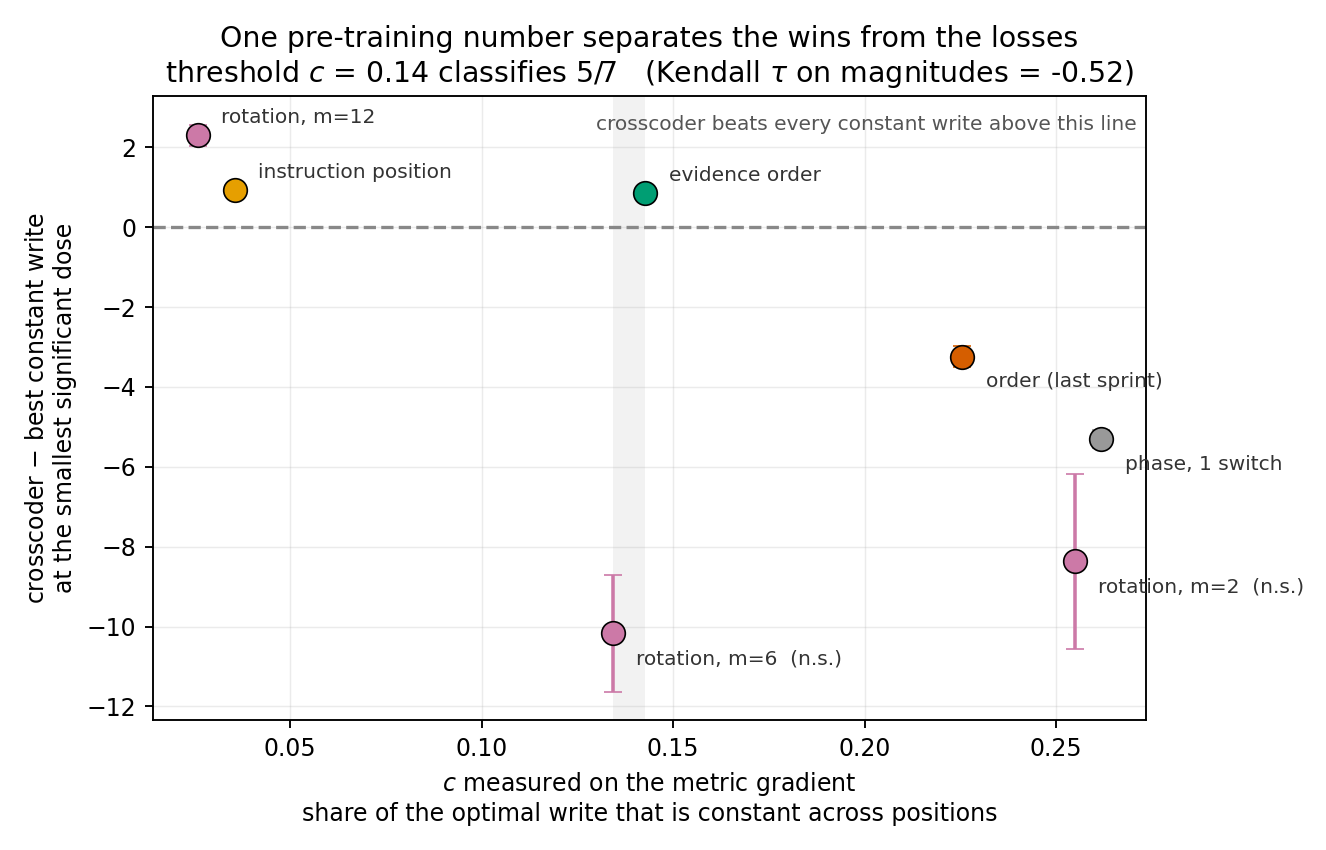
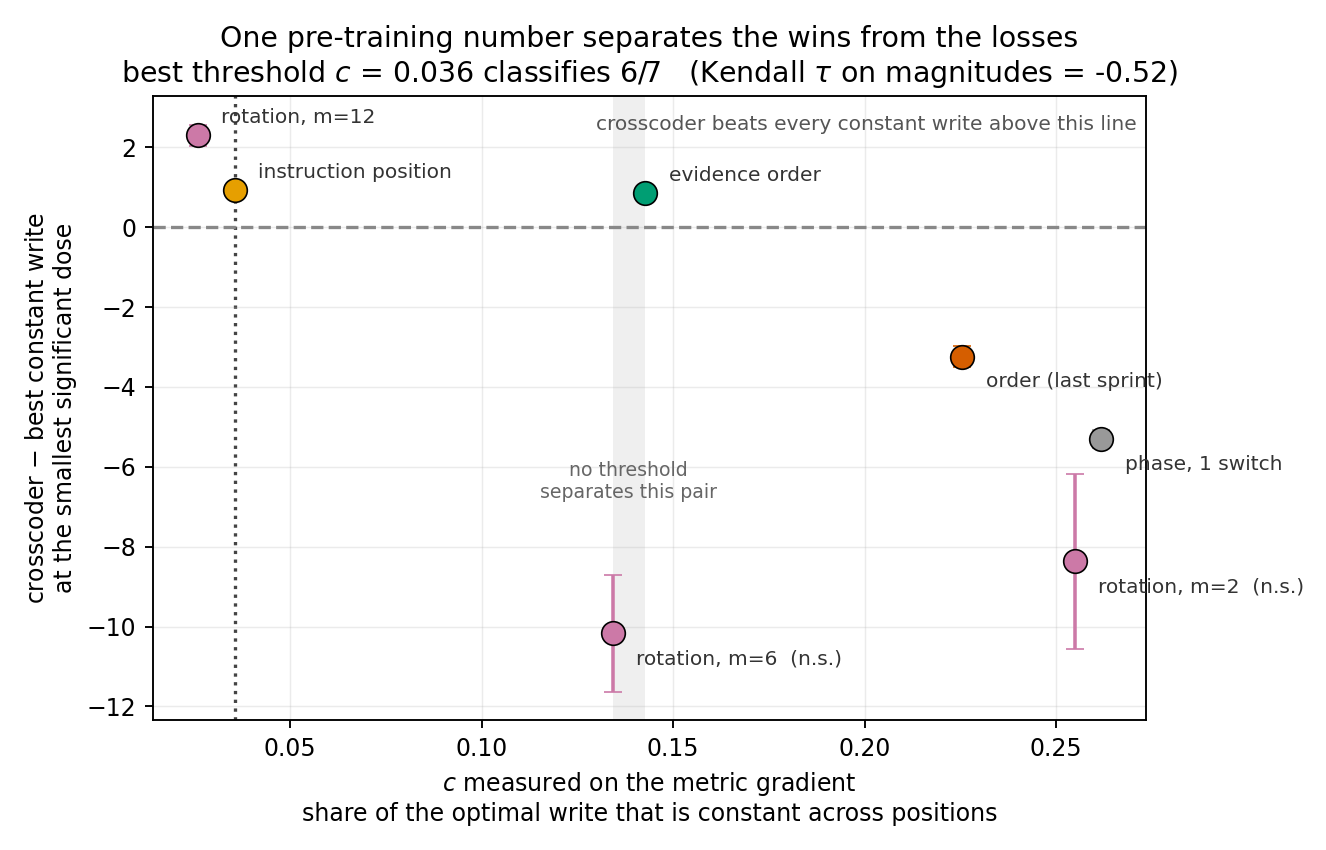
txcwins: two figure label fixes
recency.png legend called the difference-of-means rank-1 arm a per-token
ceiling, which is the claim the text retracts three times over -- the true
rank-1 ceiling is gradient-derived and cos(P_dom, Gbar) runs 0.02-0.19.

c_gate.png drew the threshold at the midpoint between the extreme win and the
extreme loss, which falls inside the inverted pair's 0.009 gap and is the one
cut that misses both. Now searches every cut, reports the best achievable 6/7,
and shades the band where no threshold can separate the pair.

Claude-Session: https://claude.ai/code/session_019TBT3ZW4RMH7Sir9Ng6aap

Changed region(s): [[0.0928, 0.0612, 0.8967, 0.1224], [0.402, 0.5506, 0.5256, 0.5812]]

diff --git a/scripts/plot_c_gate.py b/scripts/plot_c_gate.py
@@ -125,18 +125,28 @@ def main() -> int:
                   "share of the optimal write that is constant across positions")
     ax.set_ylabel("crosscoder $-$ best constant write\n"
                   "at the smallest significant dose")
-    # Rank correlation of MAGNITUDES understates this: the deltas are on different
-    # scales across tasks, so what the screen is being asked to do is classify the SIGN.
-    # A threshold quoted alongside tau is the honest pair.
+    # Rank correlation of MAGNITUDES understates this: the deltas are on different scales
+    # across tasks, so what the screen is asked to do is classify the SIGN. But a threshold
+    # has to be chosen honestly: the midpoint between the extreme win and the extreme loss
+    # falls INSIDE the inverted pair's gap and is the one cut that misses both of them.
+    # Search every cut instead, report the best achievable, and shade the band where no
+    # threshold can separate the pair -- the inversion is the point, not an embarrassment.
     wins = sorted(c for c, m, *_ in pts if m > 0)
     losses = sorted(c for c, m, *_ in pts if m <= 0)
-    thr = (max(wins) + min(losses)) / 2 if wins and losses else float("nan")
-    correct = sum(m > 0 for c, m, *_ in pts if c < thr) + \
-        sum(m <= 0 for c, m, *_ in pts if c >= thr)
-    ax.axvspan(min(losses), max(wins), color="#888888", alpha=0.10, lw=0,
-               zorder=0) if wins and losses and min(losses) < max(wins) else None
+    cuts = sorted({c for c, *_ in pts} | {c + 1e-6 for c, *_ in pts})
+    best_cut, best_n = None, -1
+    for cut in cuts:
+        n_ok = sum((m > 0) == (c < cut) for c, m, *_ in pts)
+        if n_ok > best_n:
+            best_cut, best_n = cut, n_ok
+    if wins and losses and min(losses) < max(wins):
+        ax.axvspan(min(losses), max(wins), color="#888888", alpha=0.13, lw=0, zorder=0)
+        ax.annotate("no threshold\nseparates this pair",
+                    ((min(losses) + max(wins)) / 2, ax.get_ylim()[0] * 0.55),
+                    ha="center", fontsize=8, color="#666666")
+    ax.axvline(best_cut, ls=":", color="#444444", lw=1.4, zorder=1)
     ax.set_title("One pre-training number separates the wins from the losses\n"
-                 f"threshold $c$ = {thr:.2f} classifies {correct}/{len(pts)}   "
+                 f"best threshold $c$ = {best_cut:.3f} classifies {best_n}/{len(pts)}   "
                  f"(Kendall $\\tau$ on magnitudes = {tau:+.2f})")
     ax.grid(alpha=0.25, lw=0.6)
     fig.tight_layout()

diff --git a/scripts/plot_recency.py b/scripts/plot_recency.py
@@ -15,6 +15,13 @@ The metric is a difference of differences,
 so a write that simply makes the model prefer instruction 1 pushes both documents equally and
 contributes exactly zero. Only a write whose effect depends on POSITION can move this number.
 
+NEITHER SUPERVISED ARM IS A CEILING. Both are built from the DIFFERENCE-OF-MEANS slab, which
+is what distinguishes the two classes, not what maximises the metric. The true rank-1 ceiling
+comes from the metric's gradient, and the two slabs are nearly orthogonal in practice --
+measured cos(P_dom, Gbar) runs 0.02 to 0.19 across tasks, against a random baseline of 0.007.
+So these arms are a supervised REFERENCE, and on the evidence task the crosscoder beat the
+difference-of-means arm outright, which a ceiling cannot allow.
+
 Left: dose response. The crosscoder's slab is antisymmetric in the dose -- push one way and
 the model obeys the early instruction, push the other way and it obeys the late one -- which
 is what a directed intervention looks like. Every constant-write arm is positive at BOTH
@@ -46,8 +53,8 @@ C_TSAE = "#009E73"
 C_DOM = "#000000"
 C_RND = "#999999"
 
-ARMS = [("rank1_best", "#7F7F7F", "--", "best rank-1 write (per-token ceiling, supervised)"),
-        ("sae_schedule", "#56B4E9", "--", "SAE direction on a supervised schedule"),
+ARMS = [("rank1_best", "#7F7F7F", "--", "best rank-1 write from difference-of-means\n(reference, supervised — NOT the ceiling)"),
+        ("sae_schedule", "#56B4E9", "--", "SAE direction, difference-of-means schedule"),
         ("txc_slab", C_TXC, "-", "crosscoder slab (unsupervised)"),
         ("sae_broadcast", C_SAE, "-", "TopK SAE direction"),
         ("tsae_broadcast", C_TSAE, "-", "attention tSAE direction"),
